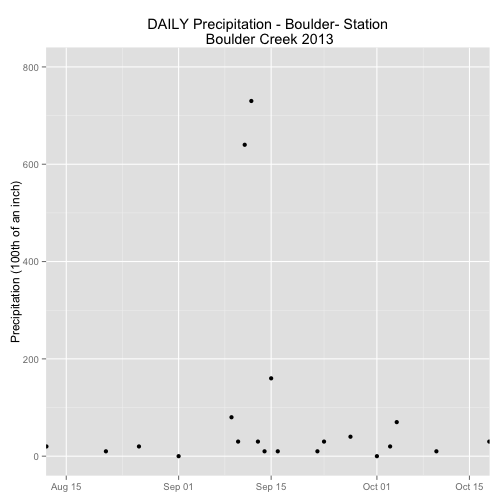
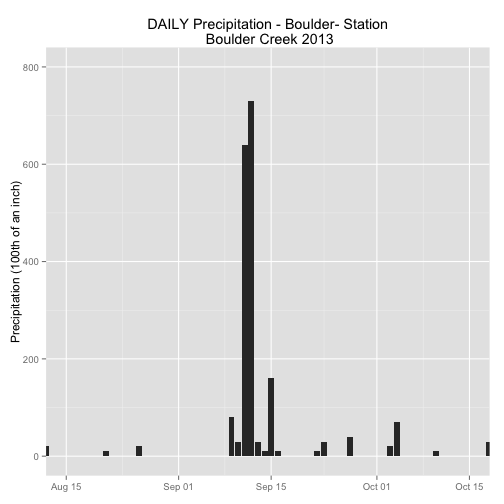
pushing most recent edits

diff --git a/_posts/boulder-flood/2015-12-03-Boulder-Flood-Time-Series.md b/_posts/boulder-flood/2015-12-03-Boulder-Flood-Time-Series.md
@@ -1,17 +1,17 @@
 ---
 layout: post
-title: "Exploring Flood Events Using Data - The Boulder Flood"
-date:  2015-05-18
-authors: [Leah A. Wasser]
+title: "Exploring Precipitation & Stream Discharge Data to Better Understand - The 2013 Colorado Floods"
+date: 2015-05-18
+authors: Leah A. Wasser
 dateCreated:  2015-05-18
 lastModified: 2015-05-18
 categories: [Coding and Informatics]
 category: coding-and-informatics
-tags: [R,time-series]
-mainTag:
+tags: [R, time-series]
+mainTag: GIS-Spatial-Data
 scienceThemes: [phenology, disturbance]
-description: "About description here."
-code1:
+description: "About the boulder flood."
+code1: 
 image:
   feature: TeachingModules.jpg
   credit: A National Ecological Observatory Network (NEON) - Teaching Module
@@ -21,7 +21,9 @@ code1: Boulder-Flood-Data.R
 comments: false
 ---
 
-Intro will go here.
+{% include _toc.html %}
+
+Intro will go here...
 
 
     library(lubridate)
@@ -168,8 +170,8 @@ creating ...
     
     #plot the data - September-October
     precPlot <- ggplot(data=precip.boulder,
-           aes(DATE,HPCP)) +
-          geom_point() +
+          aes(DATE,HPCP)) +
+          geom_bar(stat="identity") +
           scale_x_datetime(limits=limits) +
           scale_y_continuous(limits = c(0, 300))
           
@@ -178,7 +180,7 @@ creating ...
               xlab("Time") + ylab("Precipitation (100th of an inch)") +
               ggtitle("Hourly Precipitation - Boulder - Station\n Boulder Creek 2013")
 
-    ## Warning: Removed 4 rows containing missing values (geom_point).
+    ## Warning: Removed 4 rows containing missing values (position_stack).
 
 ![ ]({{ site.baseurl }}/images/rfigs/2015-12-03-Boulder-Flood-Time-Series/import-precip-1.png) 
 
@@ -188,13 +190,25 @@ creating ...
     #add a day column in the data frame
     precip.boulder$daily <- floor_date(precip.boulder$DATE, "day")
     
+    #summarize by day
     dailyPrecip.boulder <- ddply(precip.boulder, "daily",summarise, x=sum(HPCP))
     
+    names(dailyPrecip.boulder)
+
+    ## [1] "daily" "x"
+
+    #let's create a more meaningful column header for the precip value
+    names(dailyPrecip.boulder) <- c("day","prec_100In")
     
+    # view names
+    names(dailyPrecip.boulder)
+
+    ## [1] "day"        "prec_100In"
+
     #plot the data - September-October
     precPlot <- ggplot(data=dailyPrecip.boulder,
-          aes(daily,x)) +
-          geom_point() +
+          aes(day,prec_100In)) +
+           geom_bar(stat="identity") +
           scale_x_datetime(limits=limits) +
           scale_y_continuous(limits = c(0, 800))
           
@@ -203,7 +217,43 @@ creating ...
               xlab("Time") + ylab("Precipitation (100th of an inch)") +
               ggtitle("DAILY Precipitation - Boulder- Station\n Boulder Creek 2013")
 
-    ## Warning: Removed 4 rows containing missing values (geom_point).
+    ## Warning: Removed 4 rows containing missing values (position_stack).
 
 ![ ]({{ site.baseurl }}/images/rfigs/2015-12-03-Boulder-Flood-Time-Series/daily-summaries-1.png) 
+
+## Units
+
+It looks like our precipitation data are in 100th of an inch. Let's convert the 
+data to inches - units that we might be a bit more accustomed to. And then let's
+plot the data as a bar plot rather than a scatter plot.
+
+
+    #convert to inches
+    dailyPrecip.boulder$prec_in <- dailyPrecip.boulder$prec_100In / 100
+    
+    head(dailyPrecip.boulder)
+
+    ##          day prec_100In prec_in
+    ## 1 2013-01-01          0     0.0
+    ## 2 2013-01-28         10     0.1
+    ## 3 2013-01-29         10     0.1
+    ## 4 2013-02-01          0     0.0
+    ## 5 2013-02-14         10     0.1
+    ## 6 2013-02-20         20     0.2
+
+    #plot the data - September-October
+    precPlot <- ggplot(data=dailyPrecip.boulder,
+          aes(day,prec_in)) +
+          geom_bar(stat="identity") +
+          scale_x_datetime(limits=limits) +
+          scale_y_continuous(limits = c(0, 8))
+          
+    #add title and labels
+    precPlot + theme(axis.title.x = element_blank()) +
+              xlab("Time") + ylab("Precipitation (inches)") +
+              ggtitle("Daily Total Precipitation (Inches) - Boulder- Station\n Boulder Creek 2013")
+
+    ## Warning: Removed 4 rows containing missing values (position_stack).
+
+![ ]({{ site.baseurl }}/images/rfigs/2015-12-03-Boulder-Flood-Time-Series/convert-units-1.png) 
 

diff --git a/_posts/boulder-flood/2015-12-03-Colorado-Flood-Introduction.md b/_posts/boulder-flood/2015-12-03-Colorado-Flood-Introduction.md
@@ -1,0 +1,60 @@
+---
+layout: post
+title: "Understanding the 2013 Colorado Floods - #WorkWithData"
+date:  2015-11-23
+authors: [Leah A. Wasser]
+dateCreated:  2015-05-18
+lastModified: 2015-11-24
+categories: [Coding and Informatics]
+category: coding-and-informatics
+tags: [R, time-series]
+mainTag:
+scienceThemes: [phenology, disturbance]
+description: "About description here."
+code1:
+image:
+  feature: TeachingModules.jpg
+  credit: A National Ecological Observatory Network (NEON) - Teaching Module
+  creditlink: http://www.neoninc.org
+permalink: /R/Boulder-Flood-Overview/
+code1: Boulder-Flood-Data.R
+comments: false
+---
+
+{% include _toc.html %}
+
+In September 2013 a slow moving cold front moved through Colorado, intersecting 
+with a warm humid front. The clash between the cold and warm fronts yielded 
+heavy rain & devastating flooding in colorado.
+
+
+**images of the event here**
+
+
+<Something about where the data below come from??>
+
+<figure>
+<a href="https://en.wikipedia.org/wiki/2013_Colorado_floods#/media/File:North_American_Water_Vapor_Systems.gif">
+    <img src="https://upload.wikimedia.org/wikipedia/commons/9/97/North_American_Water_Vapor_Systems.gif"></a>
+    <figcaption>This is an animated loop of water vapor systems over the western 
+    area of North America on September 12th, 2013 as shown by the GOES-15 and 
+    GOES-13 satellites. The storm that caused the 2013 Colorado flooding was kept 
+    in a confined area over the Eastern Range of the Rocky Mountains in Colorado 
+    by these water vapor systems. SOURCES: Cooperative Institute for Meteorological 
+    Satellite Studies (CIMSS), University of Wisconsin – Madison, USA -
+    [CIMSS](http://cimss.ssec.wisc.edu/goes/blog/archives/13876)</figcaption>
+
+</figure>
+
+**maps of impact** 
+
+
+**plots of precip and discharge here**
+
+![ ]({{ site.baseurl }}/images/rfigs/2015-12-03-Boulder-Flood-Time-Series/plot-flood-data-1.png) 
+
+
+
+###Hourly Precipitation
+![ ]({{ site.baseurl }}/images/rfigs/2015-12-03-Boulder-Flood-Time-Series/daily-summaries-1.png) 
+
